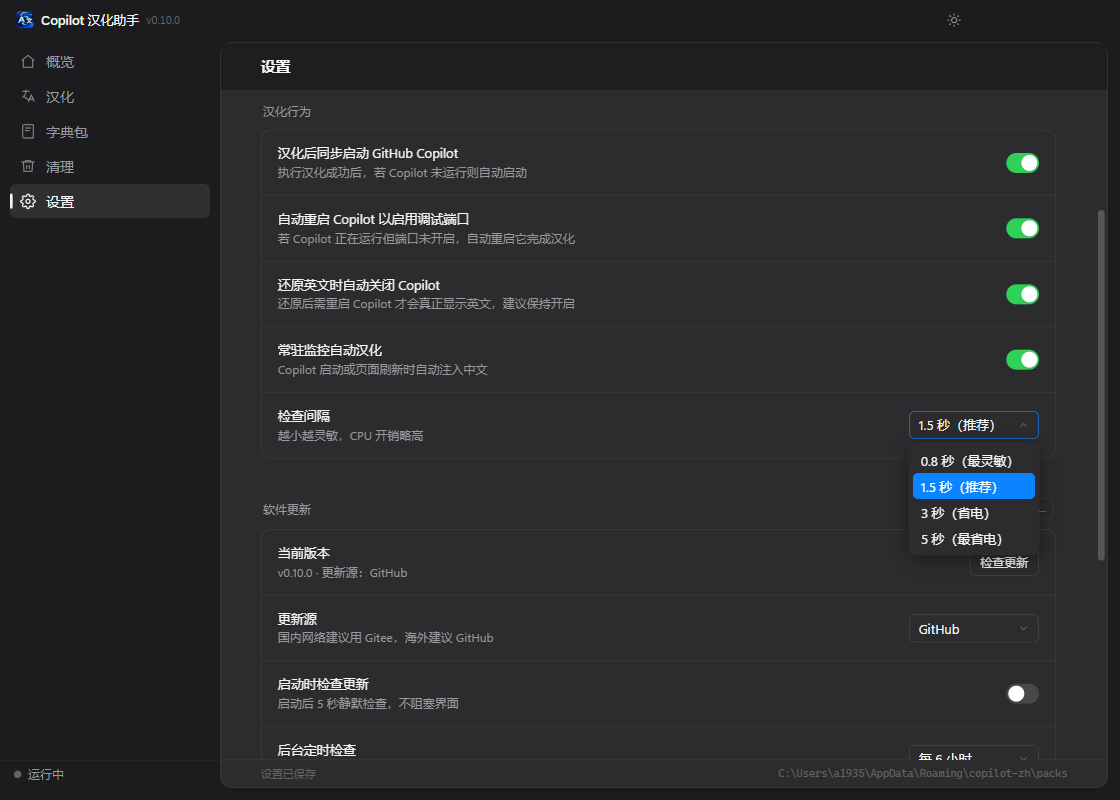
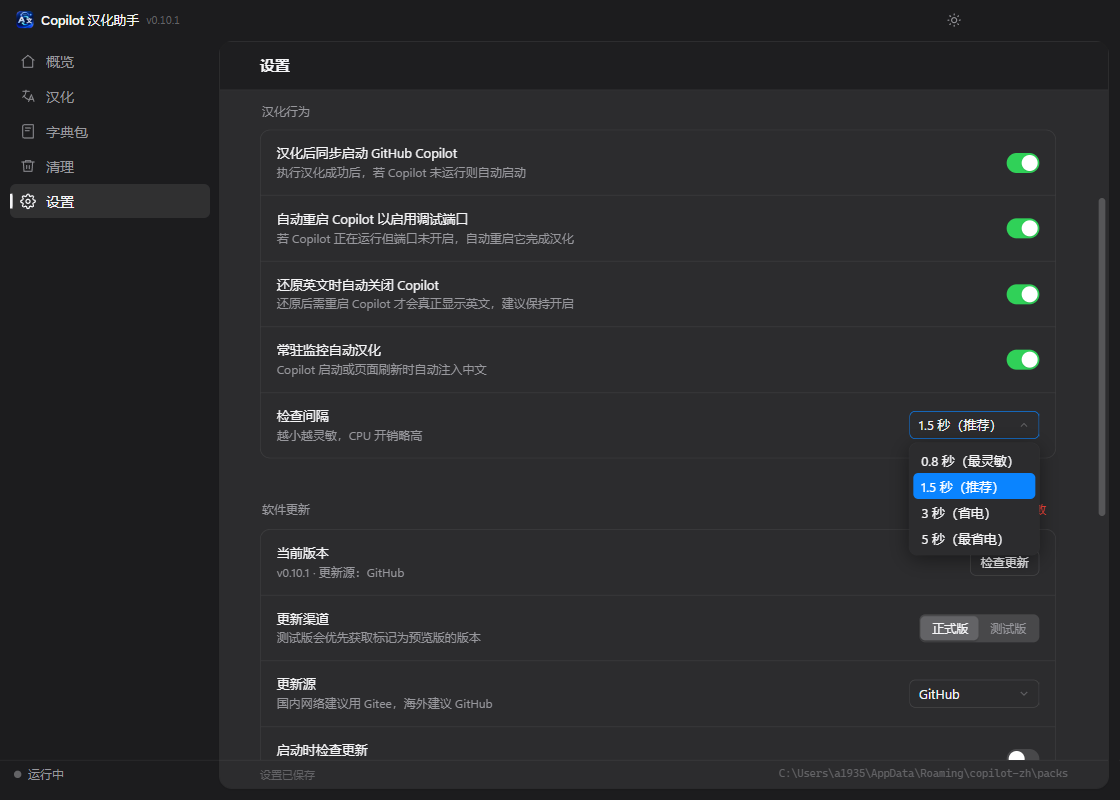
chore(release): 版本升到 0.10.1
版本升到 0.10.1，并修复测试稳定性问题。

一、版本号

package.json: 0.10.0 → 0.10.1
README.md / README.en.md 版本徽章同步更新。

原因：0.10.0 已发布过，如果直接覆盖同名安装包，
已装旧版的用户点检查更新会认为「已是最新」，收不到推送。
升版本号才能让更新链路正常走通。

新产物：
  dist/CopilotHan-Setup-0.10.1.exe         98.17 MB
  dist/CopilotHan-Setup-0.10.1.exe.blockmap
  dist/latest.yml                          version: 0.10.1
  dist-packs/packs-zh-CN-1.6.0.zip         156.5 KB

latest.yml 的 sha512 / size 已与安装包逐字节校验一致。

二、测试稳定性修复

1) 对话框关闭测试偶发失败
   原因：只等固定 400ms，而关闭动画 140ms + setTimeout 调度抖动
   在低负载时才刚好够用，连续跑多个测试时容易超时。
   修复：改为轮询等待（最多 20 次 × 150ms），
   覆盖 test-fixes.js 与 test-round44.js 两处。

2) prerelease 回归测试误报
   原因：该测试断言「仓库一定能查到 Release」。
   但实测发现 GitHub 上 v0.10.0 的 Release 已被删除，
   API 现在返回空数组，页面显示「没有任何 Release」。
   这是仓库状态变化，不是代码缺陷。
   修复：仓库无 Release 时视为跳过，只有出现其他错误才判失败。

三、新增验收脚本

scripts/test-0101.js  15 项，对已安装的 0.10.1 做端到端验收：
  版本号、侧边栏对齐（diff=0）、渠道控件（含滑块宽度）、
  徽章无空占位、更新检查 15 秒内返回、
  对话框统一设计（圆角/阴影/清单/实心红）、字典包更新入口

实测结果：15/15 通过。

四、当前回归状态（159 项全部通过）

  test-fixes 17、test-round44 13、test-update 40、
  test-ui2 38、test-edge 17、test-design-v2 19、
  test-dropdown 3、test-frameless 19

注意：仅本地提交，未推送到 GitHub。

diff --git a/scripts/test-0101.js b/scripts/test-0101.js
@@ -1,0 +1,172 @@
+// 0.10.1 安装版完整验收
+const http = require('http');
+const crypto = require('crypto');
+const net = require('net');
+
+const PORT = Number(process.argv[2] || 9444);
+function httpGet(p) {
+  return new Promise((res, rej) => {
+    const r = http.get({ host: '127.0.0.1', port: PORT, path: p, timeout: 6000 }, x => {
+      let d = ''; x.on('data', c => d += c); x.on('end', () => res(d));
+    });
+    r.on('timeout', () => { r.destroy(); rej(new Error('timeout')); });
+    r.on('error', rej);
+  });
+}
+class WS {
+  constructor(u) { this.url = new URL(u); this.buf = Buffer.alloc(0); this.id = 0; this.pending = new Map(); }
+  connect() {
+    return new Promise((resolve, reject) => {
+      const key = crypto.randomBytes(16).toString('base64');
+      this.sock = net.connect(Number(this.url.port), this.url.hostname, () => {
+        this.sock.write([`GET ${this.url.pathname} HTTP/1.1`, `Host: ${this.url.host}`, 'Upgrade: websocket',
+          'Connection: Upgrade', `Sec-WebSocket-Key: ${key}`, 'Sec-WebSocket-Version: 13', '', ''].join('\r\n'));
+      });
+      let hs = false;
+      this.sock.on('data', d => {
+        this.buf = Buffer.concat([this.buf, d]);
+        if (!hs) { const i = this.buf.indexOf('\r\n\r\n'); if (i < 0) return; hs = true; this.buf = this.buf.subarray(i + 4); resolve(); }
+        this.p();
+      });
+      this.sock.on('error', reject);
+    });
+  }
+  p() {
+    while (true) {
+      if (this.buf.length < 2) return;
+      let len = this.buf[1] & 0x7f, off = 2;
+      if (len === 126) { if (this.buf.length < 4) return; len = this.buf.readUInt16BE(2); off = 4; }
+      else if (len === 127) { if (this.buf.length < 10) return; len = Number(this.buf.readBigUInt64BE(2)); off = 10; }
+      if (this.buf.length < off + len) return;
+      const t = this.buf.subarray(off, off + len).toString('utf8');
+      this.buf = this.buf.subarray(off + len);
+      try { const m = JSON.parse(t); if (m.id && this.pending.has(m.id)) {
+        const p = this.pending.get(m.id); this.pending.delete(m.id);
+        m.error ? p.reject(new Error(JSON.stringify(m.error))) : p.resolve(m.result); } } catch (e) {}
+    }
+  }
+  send(method, params, to = 40000) {
+    const id = ++this.id, data = Buffer.from(JSON.stringify({ id, method, params: params || {} }), 'utf8');
+    const mask = crypto.randomBytes(4), masked = Buffer.alloc(data.length);
+    for (let i = 0; i < data.length; i++) masked[i] = data[i] ^ mask[i % 4];
+    let h;
+    if (data.length < 126) h = Buffer.from([0x81, 0x80 | data.length]);
+    else if (data.length < 65536) { h = Buffer.alloc(4); h[0] = 0x81; h[1] = 0x80 | 126; h.writeUInt16BE(data.length, 2); }
+    else { h = Buffer.alloc(10); h[0] = 0x81; h[1] = 0x80 | 127; h.writeBigUInt64BE(BigInt(data.length), 2); }
+    this.sock.write(Buffer.concat([h, mask, masked]));
+    return new Promise((res, rej) => { this.pending.set(id, { resolve: res, reject: rej });
+      setTimeout(() => { if (this.pending.has(id)) { this.pending.delete(id); rej(new Error('timeout: ' + method)); } }, to); });
+  }
+  close() { try { this.sock.destroy(); } catch (e) {} }
+}
+const sleep = ms => new Promise(r => setTimeout(r, ms));
+
+let pass = 0, fail = 0;
+function check(name, ok, detail) {
+  if (ok) { pass++; console.log('  ✓ ' + name); }
+  else { fail++; console.log('  ✗ ' + name + (detail ? '  → ' + detail : '')); }
+}
+
+(async () => {
+  const list = JSON.parse(await httpGet('/json/list'));
+  const page = list.find(t => t.type === 'page');
+  const ws = new WS(page.webSocketDebuggerUrl);
+  await ws.connect();
+  const ev = async (e) => {
+    const r = await ws.send('Runtime.evaluate', { expression: e, returnByValue: true, awaitPromise: true });
+    if (r && r.exceptionDetails) return 'EXC:' + JSON.parse(JSON.stringify(r.exceptionDetails)).exception.description;
+    return r && r.result ? r.result.value : null;
+  };
+
+  console.log('════ 1. 版本 ════');
+  const v = await ev(`window.api.env().then(r => r.appVersion)`);
+  check('应用版本为 0.10.1', v === '0.10.1', String(v));
+
+  console.log('\n════ 2. 侧边栏对齐 ════');
+  const align = await ev(`(() => {
+    const f = document.querySelector('.sidebar-foot').getBoundingClientRect();
+    const b = document.querySelector('.statusbar').getBoundingClientRect();
+    return JSON.stringify({ diff: Number(Math.abs(f.top - b.top).toFixed(2)) });
+  })()`);
+  let a = {}; try { a = JSON.parse(align); } catch (e) {}
+  check('两条线精确对齐', a.diff === 0, `差 ${a.diff}px`);
+
+  console.log('\n════ 3. 更新渠道 ════');
+  await ev(`switchPage('settings')`);
+  await sleep(900);
+  const ch = await ev(`(() => {
+    const s = document.getElementById('seg-channel');
+    if (!s) return JSON.stringify({exists:false});
+    const act = s.querySelector('.segmented-item.active');
+    return JSON.stringify({
+      exists: true,
+      active: act ? act.dataset.value : null,
+      count: s.querySelectorAll('.segmented-item').length,
+      segW: getComputedStyle(s).getPropertyValue('--seg-w').trim()
+    });
+  })()`);
+  console.log('  ', ch);
+  let c = {}; try { c = JSON.parse(ch); } catch (e) {}
+  check('渠道控件存在', c.exists, '');
+  check('有正式版/测试版两项', c.count === 2, String(c.count));
+  check('滑块有宽度', parseFloat(c.segW) > 0, c.segW);
+
+  console.log('\n════ 4. 徽章不显示空占位 ════');
+  const badge = await ev(`(() => {
+    const b = document.getElementById('update-badge');
+    return JSON.stringify({ hidden: b.hidden, text: b.textContent });
+  })()`);
+  console.log('  ', badge);
+  let bd = {}; try { bd = JSON.parse(badge); } catch (e) {}
+  check('徽章不是空横线', bd.text !== '—', bd.text);
+
+  console.log('\n════ 5. 更新检查不卡住 ════');
+  const t0 = Date.now();
+  const r = await ev(`window.api.updateCheck().then(x => JSON.stringify(x))`);
+  const el = Date.now() - t0;
+  console.log(`  耗时 ${el}ms:`, String(r).slice(0, 150));
+  check('在 15 秒内返回', el < 15000, el + 'ms');
+  let rr = {}; try { rr = JSON.parse(r); } catch (e) {}
+  check('返回明确结果', typeof rr.ok === 'boolean', String(rr.ok));
+  await sleep(500);
+  const st = await ev(`window.api.updateStatus().then(s => s.state)`);
+  check('状态未卡在 checking', st !== 'checking', String(st));
+
+  console.log('\n════ 6. 统一对话框 ════');
+  await ev(`window.Dialog.confirm({ title:'测试', message:'内容', items:['a','b'], danger:true }); 0`);
+  await sleep(700);
+  const dlg = await ev(`(() => {
+    const m = document.querySelector('.dialog-mask');
+    if (!m) return JSON.stringify({exists:false});
+    const d = m.querySelector('.dialog');
+    return JSON.stringify({
+      exists: true,
+      radius: getComputedStyle(d).borderRadius,
+      hasShadow: getComputedStyle(d).boxShadow !== 'none',
+      listCount: m.querySelectorAll('.dialog-list li').length,
+      isDangerRed: !!m.querySelector('.btn-danger-solid')
+    });
+  })()`);
+  console.log('  ', dlg);
+  let d = {}; try { d = JSON.parse(dlg); } catch (e) {}
+  check('对话框已渲染', d.exists, '');
+  check('使用设计圆角', parseFloat(d.radius) >= 10, d.radius);
+  check('有阴影', d.hasShadow, '');
+  check('危险按钮实心红', d.isDangerRed, '');
+  await ev(`document.querySelector('.dialog-mask .dialog-cancel')?.click(); 0`);
+  await sleep(700);
+  check('可正常关闭', await ev(`!document.querySelector('.dialog-mask')`), '');
+
+  console.log('\n════ 7. 字典包更新入口 ════');
+  const pk = await ev(`window.api.checkPackUpdate().then(r => JSON.stringify(r))`);
+  console.log('  ', String(pk).slice(0, 160));
+  let p = {}; try { p = JSON.parse(pk); } catch (e) {}
+  check('不再是占位实现', p.notConfigured === undefined, String(p.notConfigured));
+
+  console.log('\n══════════════════════════════');
+  console.log(`  通过 ${pass} / ${pass + fail}`);
+  console.log('══════════════════════════════');
+
+  ws.close();
+  process.exit(fail > 0 ? 1 : 0);
+})().catch(e => { console.error('失败:', e.message); process.exit(1); });

diff --git a/scripts/test-update.js b/scripts/test-update.js
@@ -196,7 +196,13 @@ await testAsync('只有 prerelease 的仓库也能检查到更新', async () => 
   if (!r.ok) {
     const isNetworkIssue = /超时|ECONN|ENOTFOUND|查询失败/.test(String(r.reason));
     if (isNetworkIssue) { console.log('      （网络不可达，跳过实际校验）'); return; }
-    assert.fail('不应报「还没有发布任何 Release」，实际：' + r.reason);
+    // 仓库当前可能确实没有 Release（发布后被删除），
+    // 此时「没有 Release」是正确结果，不算失败。
+    if (/还没有发布任何 Release/.test(String(r.reason))) {
+      console.log('      （仓库当前无 Release，跳过）');
+      return;
+    }
+    assert.fail('不应出现其他错误，实际：' + r.reason);
   }
   assert.ok(r.version, '应返回版本号');
   assert.ok(r.assets.exeUrl, '应返回安装包地址');

diff --git a/scripts/test-round44.js b/scripts/test-round44.js
@@ -159,8 +159,12 @@ function check(name, ok, detail) {
   check('有阴影', d.hasShadow, '');
   check('危险按钮为实心红', String(d.confirmBtnClass).includes('btn-danger-solid'), d.confirmBtnClass);
 
+  // 关闭后轮询等待（动画 140ms + 调度抖动，固定 400ms 不够稳定）
   await ev(`document.querySelector('.dialog-mask [data-act="cancel"]').click()`);
-  await sleep(400);
+  for (let i = 0; i < 20; i++) {
+    if (await ev(`!document.querySelector('.dialog-mask')`)) break;
+    await sleep(150);
+  }
   check('对话框可关闭', await ev(`!document.querySelector('.dialog-mask')`), '');
 
   console.log('\n════ 5. 更新区右侧元素 ════');

diff --git a/scripts/test-fixes.js b/scripts/test-fixes.js
@@ -205,8 +205,12 @@ function check(name, ok, detail) {
   check('使用设计圆角', parseFloat(d.radius) >= 10, d.radius);
 
   // 关闭对话框
+  // 关闭后轮询等待（动画 140ms + 调度抖动，固定 400ms 不够稳定）
   await ev(`document.querySelector('.dialog-mask [data-act="cancel"]').click()`);
-  await sleep(400);
+  for (let i = 0; i < 20; i++) {
+    if (await ev(`!document.querySelector('.dialog-mask')`)) break;
+    await sleep(150);
+  }
   const closed = await ev(`!document.querySelector('.dialog-mask')`);
   check('对话框可关闭', closed, '');
 

diff --git a/README.en.md b/README.en.md
@@ -5,7 +5,7 @@
 [![Platform](https://img.shields.io/badge/platform-Windows%2010%2F11-0078D4?logo=windows)](https://www.microsoft.com/windows)
 [![Electron](https://img.shields.io/badge/Electron-38-47848F?logo=electron)](https://www.electronjs.org/)
 [![License](https://img.shields.io/badge/license-MIT-blue.svg)](LICENSE)
-[![Version](https://img.shields.io/badge/version-0.10.0-success)](https://github.com/)
+[![Version](https://img.shields.io/badge/version-0.10.1-success)](https://github.com/)
 
 > A Windows tool that provides a **Simplified Chinese interface** for the **GitHub Copilot desktop app**.
 > It does not modify the application itself, keeps its digital signature intact, and localizes automatically once configured.

diff --git a/README.md b/README.md
@@ -5,7 +5,7 @@
 [![Platform](https://img.shields.io/badge/platform-Windows%2010%2F11-0078D4?logo=windows)](https://www.microsoft.com/windows)
 [![Electron](https://img.shields.io/badge/Electron-38-47848F?logo=electron)](https://www.electronjs.org/)
 [![License](https://img.shields.io/badge/license-MIT-blue.svg)](LICENSE)
-[![Version](https://img.shields.io/badge/version-0.10.0-success)](https://github.com/)
+[![Version](https://img.shields.io/badge/version-0.10.1-success)](https://github.com/)
 
 > 为 **GitHub Copilot 桌面版** 提供简体中文界面的 Windows 工具。
 > 不修改应用本体，数字签名保持完好，一次配置后随 Copilot 启动自动汉化。
